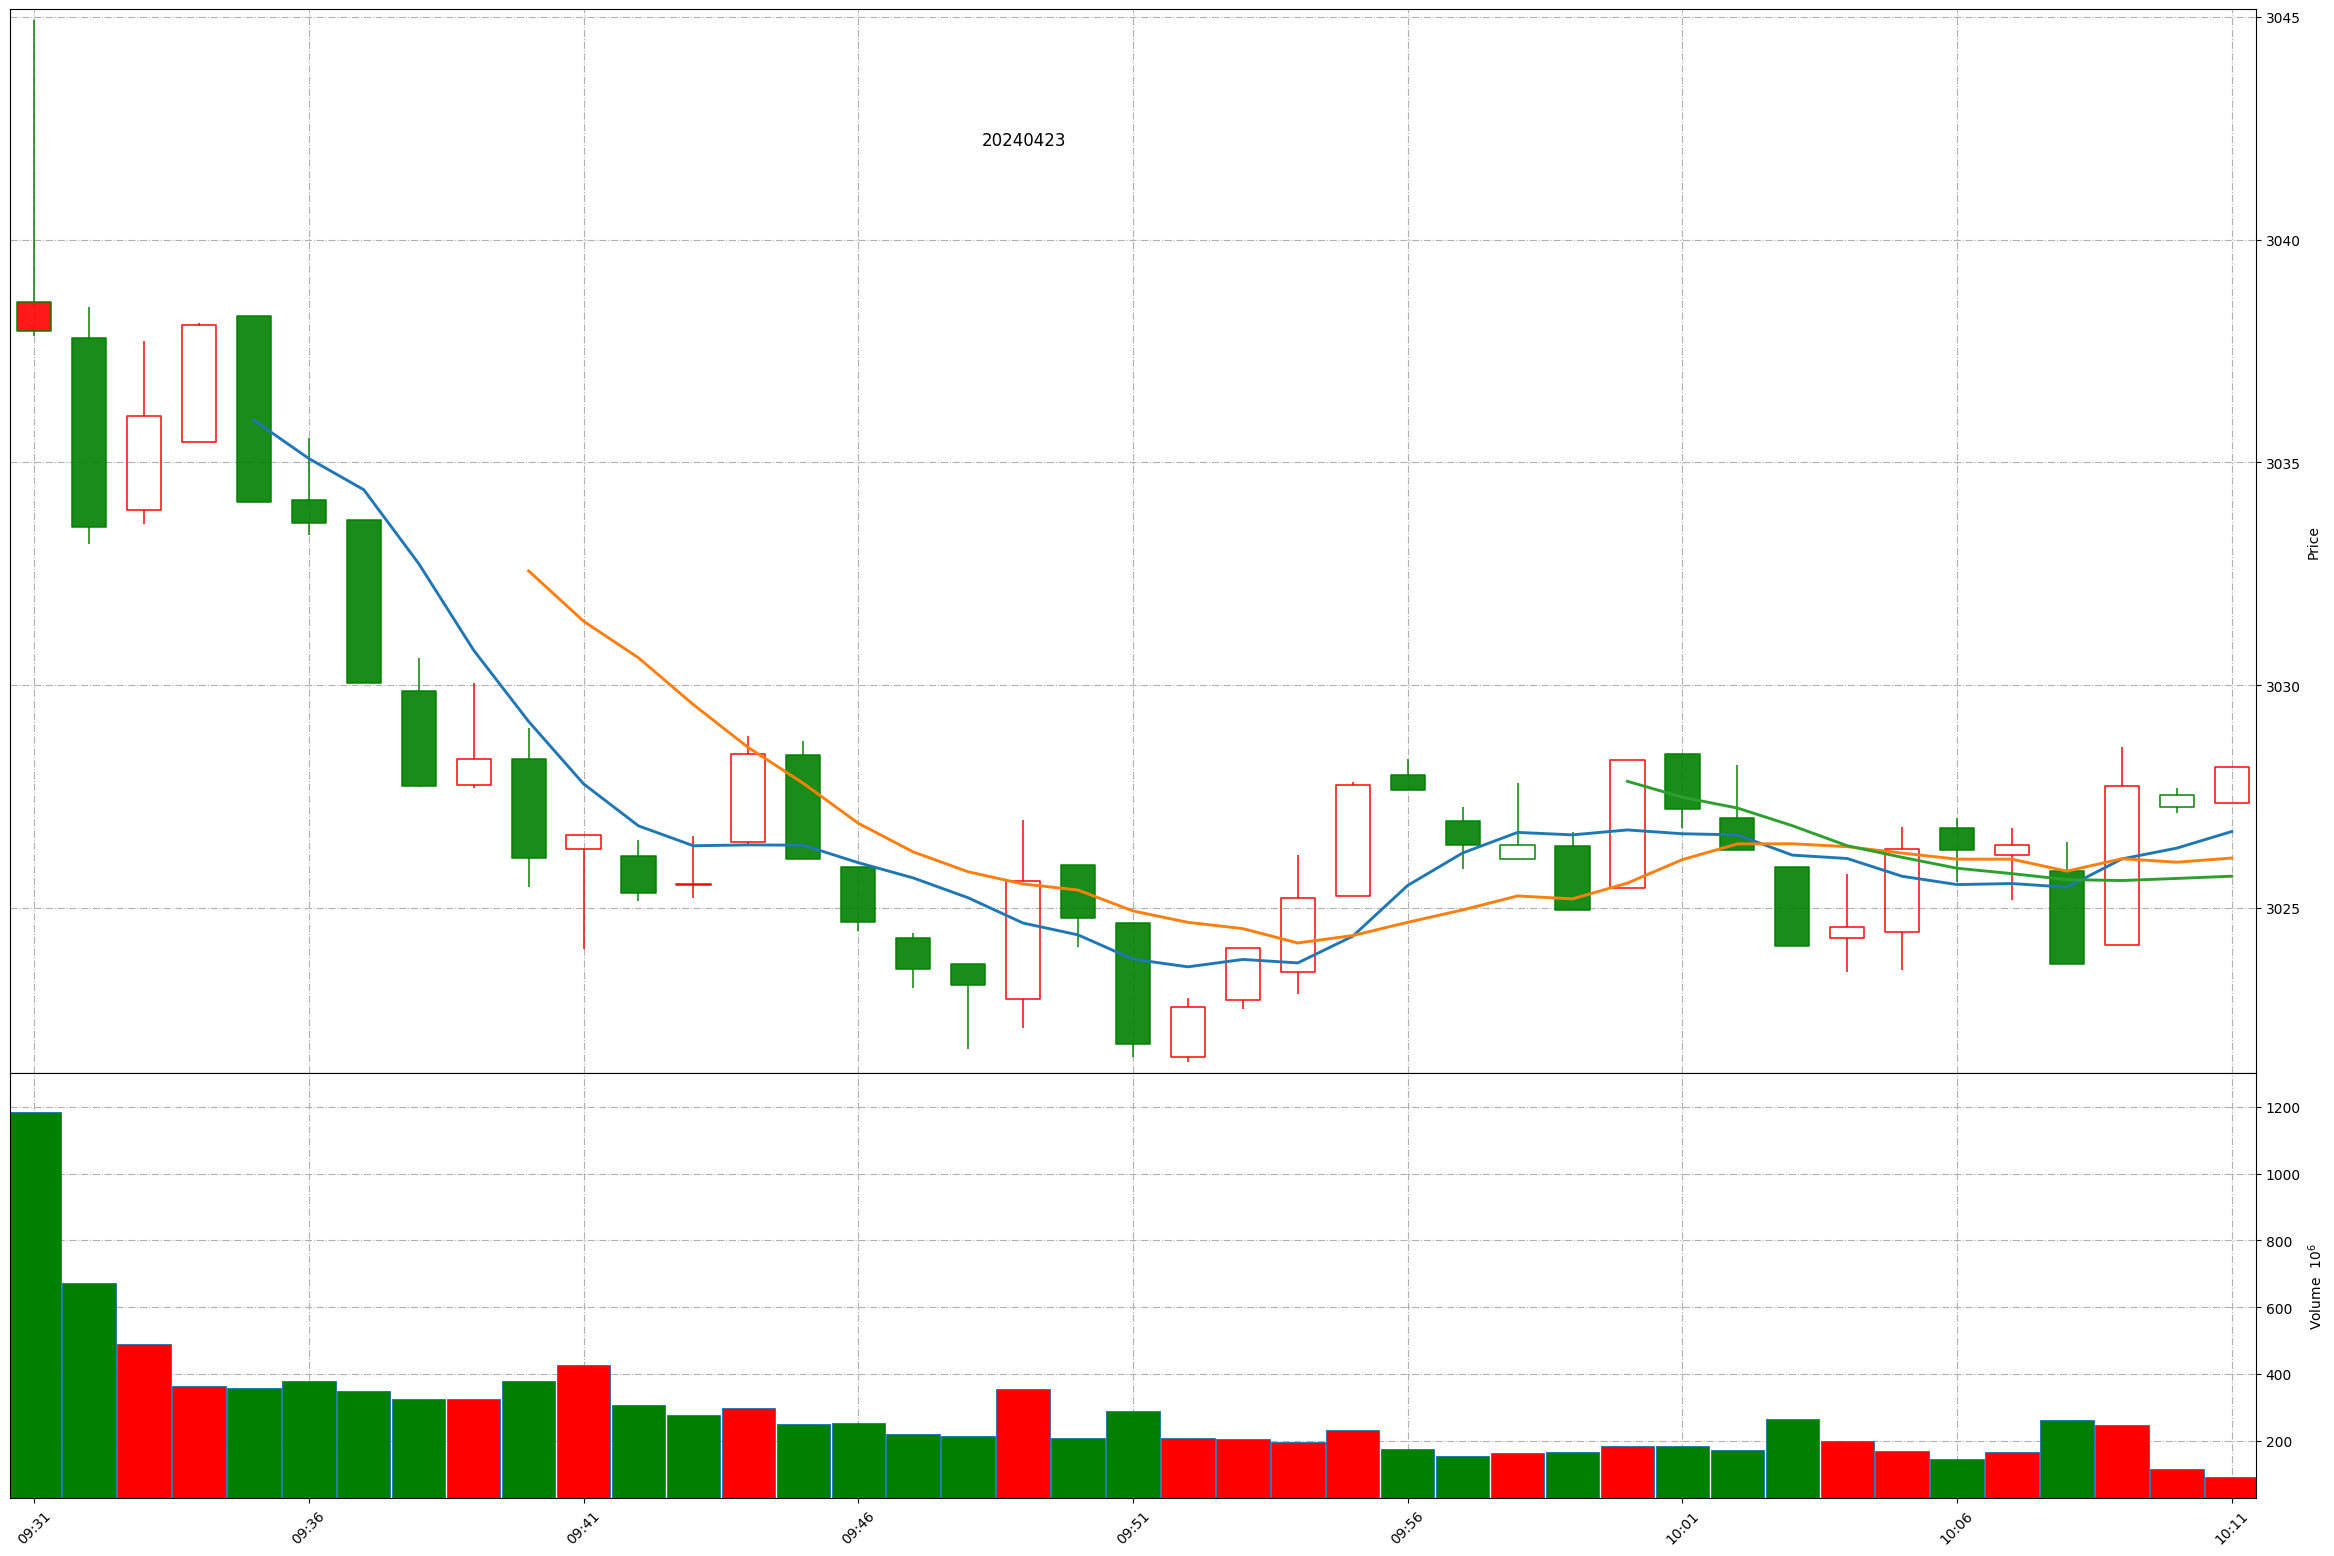
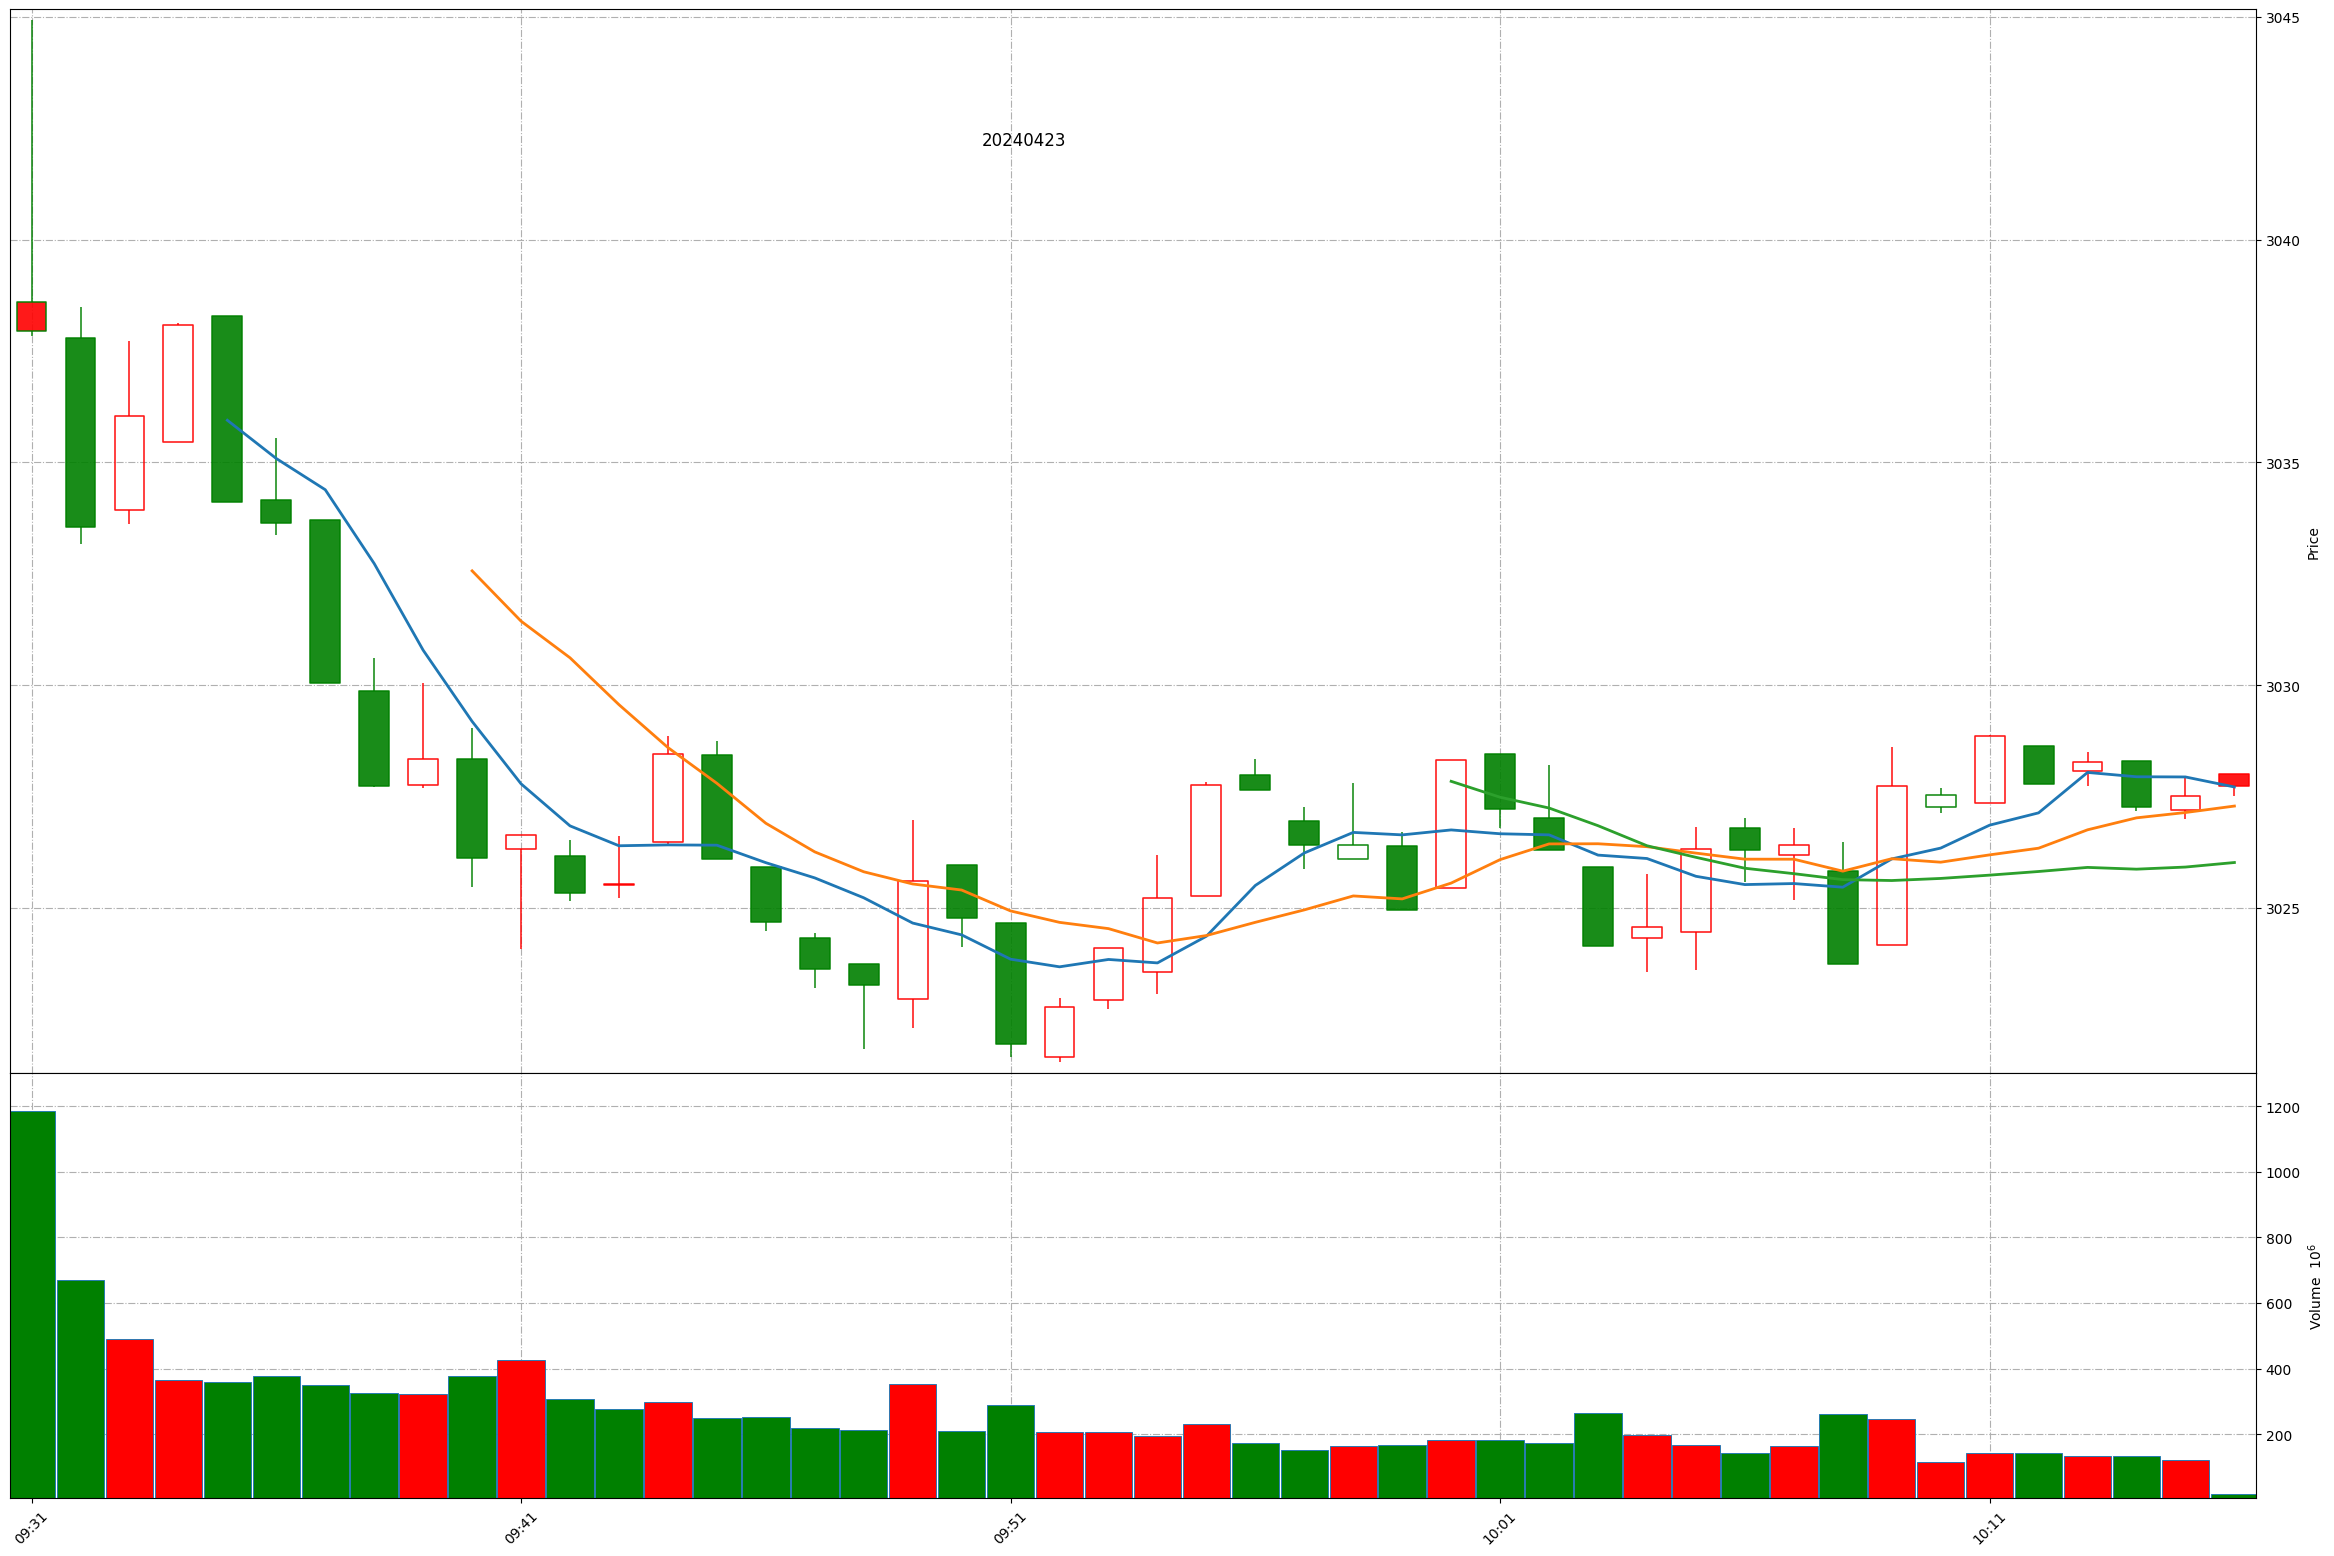
Github action update at 2024-04-23 10:15:24.

diff --git a/README.md b/README.md
@@ -1,11 +1,11 @@
 
 # Daily-A-share-market-quotes 每日 A 股指数（5min 更新）- 20240423
 
-### 上证指数 20240423 10:11
+### 上证指数 20240423 10:15
 ![](./fig/2024/4/20240423-sh000001.png)
 
-### 深证成指 20240423 10:11
+### 深证成指 20240423 10:15
 ![](./fig/2024/4/20240423-sz399001.png)
 
-### 北证50 20240423 10:11
+### 北证50 20240423 10:15
 ![](./fig/2024/4/20240423-bj899050.png)
